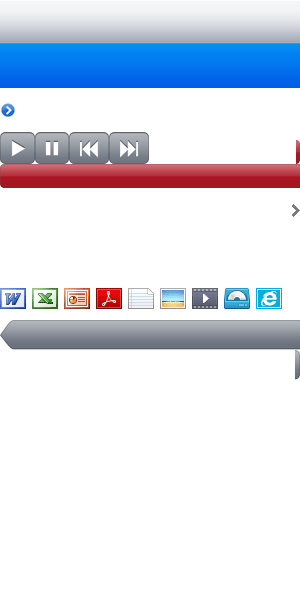
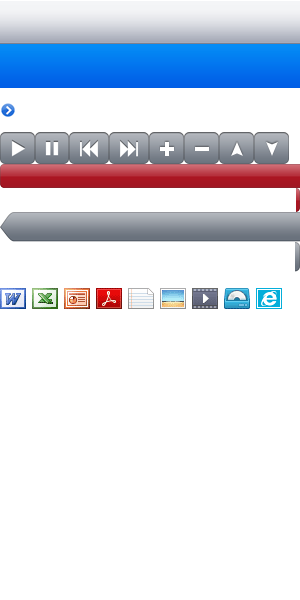
updateed 2013-01-28
在播放控制页面增加了的对Word和Excel文档的放大、缩小、上移、下移按钮；修改了控制页面登录时的按钮，现在可以用回车提交登录；修改了设备注册和编辑时，Mac地址自动格式化功能；修改了平台Title名称。

Changed region(s): [[0.0, 0.3, 1.0, 0.45], [0.0, 0.51, 1.0, 0.63], [0.48, 0.21, 1.0, 0.3]]

diff --git a/ShowRommSys.Client.Web/Images/style-pad.css b/ShowRommSys.Client.Web/Images/style-pad.css
@@ -1,12 +1,12 @@
 html,body,h1,h2,h3,h4,h5,h6,p,ul,li,ol,dl,dt,dd,form{padding:0;margin:0;}
-body{line-height:16px;}
+body{line-height:16px;background-color:#e2e5ea;}
 ul,ol{list-style-type:none;}
 img{border:0 none;}
 em{font-style:normal;}
 a{text-decoration:none;}
 input{outline-style:none;outline-width:initial;outline-color:initial;}
 
-.ipad2{position:absolute;top:0;bottom:0;left:0;right:0;}
+.ipad2{position:absolute;top:0;bottom:0;left:0;right:0;min-width:467px;}
 
 .cols{padding:0 0 0 301px;}
 .cols-left{float:left;width:300px;height:100%;border-right:1px solid #000;margin-left:-301px;}
@@ -34,10 +34,10 @@ input{outline-style:none;outline-width:initial;outline-color:initial;}
 .section{border:1px solid #b8bbbf;background-color:#f7f7f7;-webkit-border-radius:10px;-moz-border-radius:10px;border-radius:10px;margin-bottom:20px;overflow:hidden;}
 .section ul{}
 .section li{line-height:42px;}
+.section .empty{text-align:center;}
 .section .list{display:block;height:42px;color:#000;padding:0 11px;}
 .section .list:active{height:44px;color:#fff;border:0 none;background:url(images-pad.png) repeat-x 0 -44px;}
-.section .list span{display:block;background:url(images-pad.png) no-repeat 100% -188px;}
-.section .list:active span{background-position:100% -232px;}
+.section .list span{display:block;}
 .section .list em{margin-right:10px;}
 .section .bord-s{border-top:1px solid #e3e3e3;border-bottom:1px solid #cacaca;}
 .section .bord-m{border-top:1px solid #fdfdfd;border-bottom:1px solid #cacaca;}
@@ -54,6 +54,9 @@ input{outline-style:none;outline-width:initial;outline-color:initial;}
 .button a{display:block;line-height:44px;text-align:center;color:#000;border:1px solid #b8bbbf;background-color:#f7f7f7;-webkit-border-radius:10px;-moz-border-radius:10px;border-radius:10px;margin-bottom:20px;overflow:hidden;}
 .button a:active{background:url(images-pad.png) repeat-x 0 -44px;color:#fff;}
 
+button{display:block;width:100%;height:44px;font-size:16px;color:#000;border:1px solid #b8bbbf;background-color:#f7f7f7;-webkit-border-radius:10px;-moz-border-radius:10px;border-radius:10px;}
+button.touchstart{background:url(images-pad.png) repeat-x 0 -44px;color:#fff;}
+
 .label{line-height:44px;color:#4c566c;padding:0 0 0 11px;}
 .label h2{font-size:16px;font-weight:normal;}
 .label p{font-size:14px;text-align:center;}
@@ -63,8 +66,8 @@ input{outline-style:none;outline-width:initial;outline-color:initial;}
 .playlist li{line-height:44px;border:1px solid #b8bbbf;background-color:#f7f7f7;-webkit-border-radius:10px;-moz-border-radius:10px;border-radius:10px;margin-bottom:20px;}
 .playlist li.current .control{display:block;}
 .playlist .filetype{display:inline-block;width:26px;height:22px;background:url(images-pad.png) no-repeat 999px 999px;vertical-align:middle;}
-.playlist .filename{vertical-align:middle;margin:0 0 0 5px;}
-.playlist .subject{height:44px;padding:0 11px;}
+.playlist .filename{vertical-align:middle;margin:0 0 0 5px;cursor:default;}
+.playlist .subject{height:44px;padding:0 11px;overflow:hidden;}
 .playlist .control{display:none;height:32px;text-align:right;padding:6px 0;}
 .playlist .control a{margin:0 11px 0 0;}
 .playlist .filetype-doc{background-position:0 -288px;}
@@ -83,9 +86,13 @@ input{outline-style:none;outline-width:initial;outline-color:initial;}
 .control a.pause{width:34px;background-position:-35px -132px;}
 .control a.rw{width:40px;background-position:-69px -132px;}
 .control a.ff{width:40px;background-position:-109px -132px;}
+.control a.zi{width:35px;background-position:-149px -132px;}
+.control a.zo{width:35px;background-position:-184px -132px;}
+.control a.mu{width:35px;background-position:-219px -132px;}
+.control a.md{width:35px;background-position:-254px -132px;}
 
-.btn-red{display:inline-block;height:24px;line-height:24px;background:url(images-pad.png) no-repeat 100% -140px;padding:0 4px 0 0;}
+.btn-red{display:inline-block;height:24px;line-height:24px;background:url(images-pad.png) no-repeat 100% -188px;padding:0 4px 0 0;}
 .btn-red span{display:block;height:24px;background:url(images-pad.png) no-repeat 0 -164px;padding:0 3px 0 7px;color:#fff;font-size:12px;}
 
-.btn-back{display:inline-block;height:30px;line-height:30px;background:url(images-pad.png) no-repeat 100% -350px;padding:0 5px 0 0;}
-.btn-back span{display:block;height:30px;background:url(images-pad.png) no-repeat 0 -320px;padding:0 5px 0 15px;color:#fff;font-size:12px;}
+.btn-back{display:inline-block;height:30px;line-height:30px;background:url(images-pad.png) no-repeat 100% -242px;padding:0 5px 0 0;}
+.btn-back span{display:block;height:30px;background:url(images-pad.png) no-repeat 0 -212px;padding:0 5px 0 15px;color:#fff;font-size:12px;}
